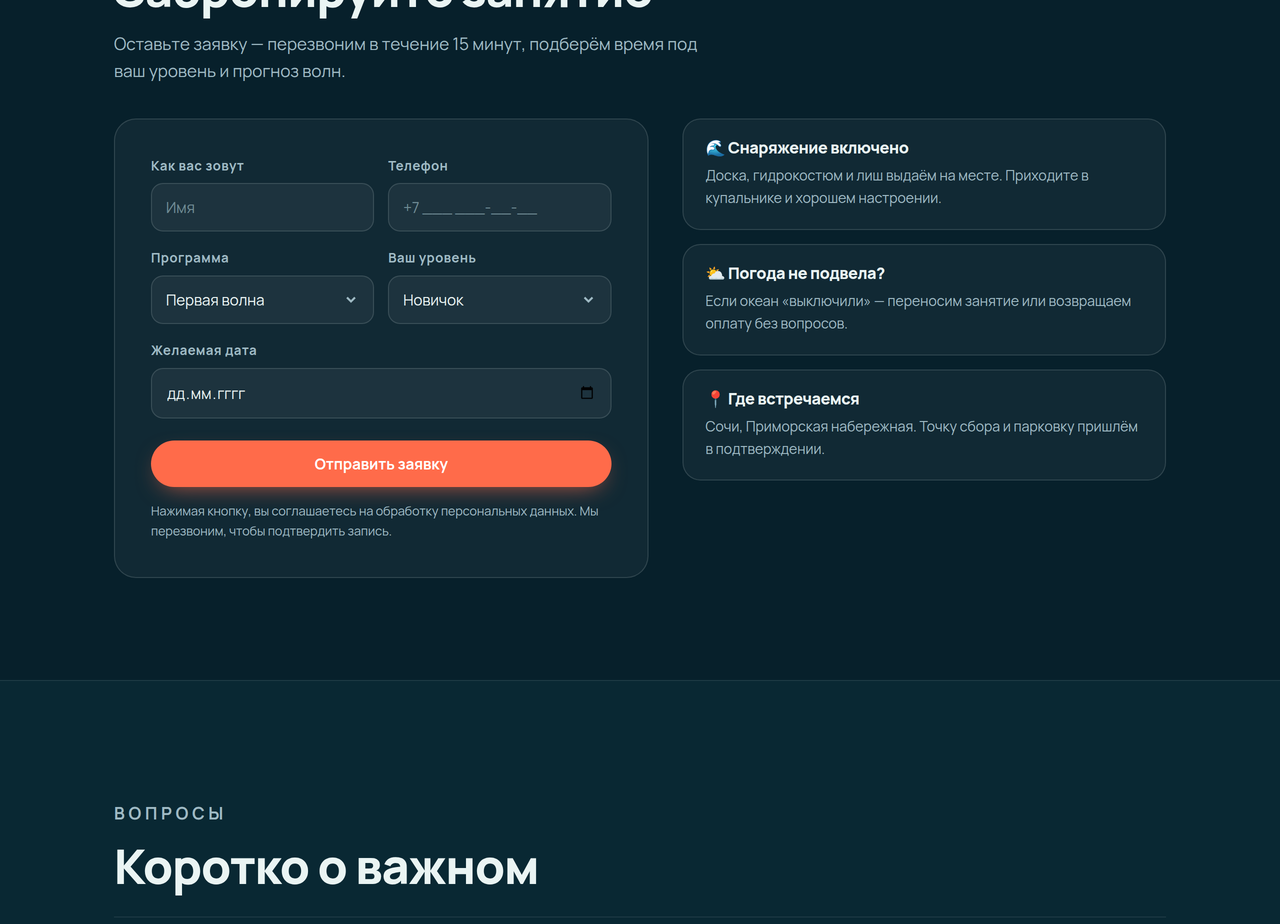
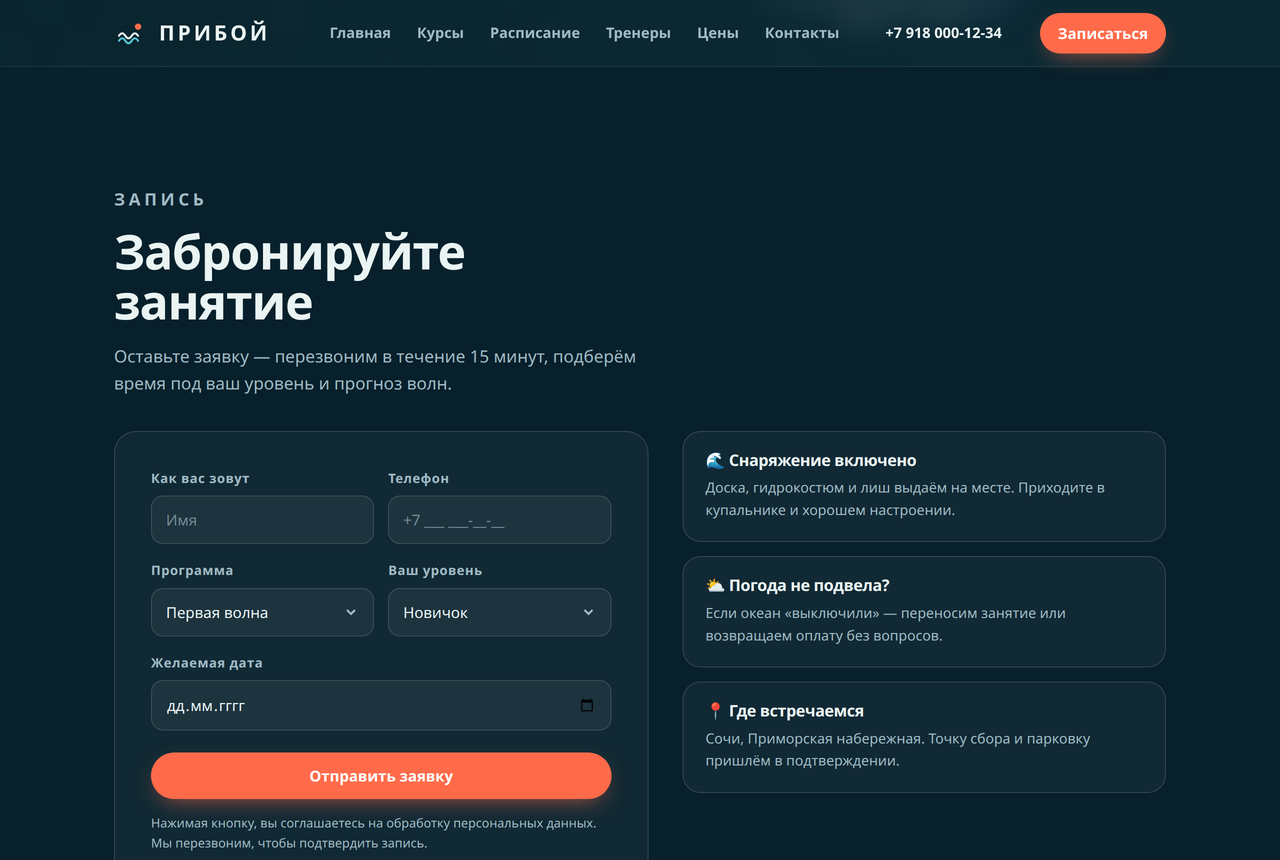
ПРИБОЙ: switch sections to tab-panels like the other landings
Sections now open one screen at a time via the nav (tabs), instead of
one long scroll — matching Веха and ЯГОДА. Each panel gets a "Дальше"
link, keyboard arrows and #hash routing; FAQ merged into Контакты;
booking opens as a panel from the CTA buttons. Also load fonts
non-blocking so the preloader hides promptly.

Claude-Session: https://claude.ai/code/session_01U5XWnAh8A9df2uQjXruh7o

diff --git a/priboy/index.html b/priboy/index.html
@@ -9,7 +9,8 @@
 <link rel="icon" type="image/svg+xml" href="favicon.svg">
 <link rel="preconnect" href="https://fonts.googleapis.com">
 <link rel="preconnect" href="https://fonts.gstatic.com" crossorigin>
-<link href="https://fonts.googleapis.com/css2?family=Manrope:wght@400;500;600;700;800&display=swap" rel="stylesheet">
+<link rel="stylesheet" media="print" onload="this.media='all'" href="https://fonts.googleapis.com/css2?family=Manrope:wght@400;500;600;700;800&display=swap">
+<noscript><link rel="stylesheet" href="https://fonts.googleapis.com/css2?family=Manrope:wght@400;500;600;700;800&display=swap"></noscript>
 <style>
 :root{
   --deep:#07202B; --sea:#0E3A4C; --teal:#12566B;
@@ -107,7 +108,20 @@ section{position:relative}
 .sec-head h2{font-size:clamp(28px,4.4vw,48px);margin-top:14px}
 .sec-head p{margin-top:16px;color:var(--mist);font-size:17px}
 
-/* ——— вкладки ——— */
+/* ——— секции как вкладки-панели (по одной на экране) ——— */
+.js .panel[hidden]{display:none!important}
+.js .panel{min-height:calc(100svh - var(--hh));border-top:0}
+.js .panel.is-active{animation:panelIn .45s ease both}
+@keyframes panelIn{from{opacity:0;transform:translateY(12px)}to{opacity:1;transform:none}}
+.next-wrap{margin-top:var(--gap)}
+.next{display:inline-flex;align-items:center;gap:14px;padding:14px 0}
+.next span{font-size:12px;font-weight:700;letter-spacing:.14em;text-transform:uppercase;color:var(--mist)}
+.next b{font-size:20px;font-weight:800}
+.next .arw{color:var(--coral);font-size:22px;line-height:1;transition:transform .2s}
+.next:hover .arw{transform:translateX(6px)}
+.next:hover b{color:var(--foam)}
+
+/* ——— вкладки внутри секций ——— */
 .tabs{display:flex;flex-wrap:wrap;gap:10px;margin:34px 0 30px}
 .tab{font-family:inherit;font-weight:700;font-size:14.5px;color:var(--mist);cursor:pointer;
   background:var(--card);border:1px solid var(--line);border-radius:999px;padding:11px 20px;transition:.2s}
@@ -280,6 +294,7 @@ section{position:relative}
       <b>ПРИБОЙ</b>
     </a>
     <nav class="nav" id="nav" aria-label="Разделы">
+      <a href="#home">Главная</a>
       <a href="#courses">Курсы</a>
       <a href="#schedule">Расписание</a>
       <a href="#coaches">Тренеры</a>
@@ -302,6 +317,7 @@ section{position:relative}
     <b style="letter-spacing:.14em">ПРИБОЙ</b>
     <button class="mclose" id="mclose" aria-label="Закрыть">✕</button>
   </div>
+  <a href="#home">Главная</a>
   <a href="#courses">Курсы</a>
   <a href="#schedule">Расписание</a>
   <a href="#coaches">Тренеры</a>
@@ -311,9 +327,9 @@ section{position:relative}
   <button class="btn btn-coral" data-book>Записаться на занятие</button>
 </aside>
 
-<main id="home">
+<main>
   <!-- hero -->
-  <section class="hero">
+  <section class="hero panel" id="home">
     <div class="wrap">
       <p class="eyebrow">Школа сёрфинга · Чёрное море, Сочи</p>
       <h1>Поймай свою <span class="accent">первую волну</span><br>уже на этих выходных</h1>
@@ -333,7 +349,7 @@ section{position:relative}
   </section>
 
   <!-- курсы (вкладки по уровню) -->
-  <section class="sec" id="courses">
+  <section class="sec panel" id="courses">
     <div class="wrap">
       <div class="sec-head">
         <p class="eyebrow">Программы</p>
@@ -428,7 +444,7 @@ section{position:relative}
   </section>
 
   <!-- расписание (вкладки по локации) -->
-  <section class="sec alt" id="schedule">
+  <section class="sec alt panel" id="schedule">
     <div class="wrap">
       <div class="sec-head">
         <p class="eyebrow">Ближайшие сессии</p>
@@ -468,7 +484,7 @@ section{position:relative}
   </section>
 
   <!-- тренеры -->
-  <section class="sec" id="coaches">
+  <section class="sec panel" id="coaches">
     <div class="wrap">
       <div class="sec-head">
         <p class="eyebrow">Команда</p>
@@ -483,7 +499,7 @@ section{position:relative}
   </section>
 
   <!-- цены -->
-  <section class="sec alt" id="pricing">
+  <section class="sec alt panel" id="pricing">
     <div class="wrap">
       <div class="sec-head">
         <p class="eyebrow">Абонементы</p>
@@ -514,7 +530,7 @@ section{position:relative}
   </section>
 
   <!-- запись -->
-  <section class="sec" id="booking">
+  <section class="sec panel" id="booking">
     <div class="wrap">
       <div class="sec-head">
         <p class="eyebrow">Запись</p>
@@ -565,21 +581,8 @@ section{position:relative}
     </div>
   </section>
 
-  <!-- FAQ -->
-  <section class="sec alt">
-    <div class="wrap">
-      <div class="sec-head"><p class="eyebrow">Вопросы</p><h2>Коротко о важном</h2></div>
-      <div class="faq" style="margin-top:26px">
-        <details open><summary>Нужно ли уметь плавать?<span class="pl"></span></summary><p>Да, базовый навык плавания обязателен — занятия проходят на глубине, где не всегда достаёте дна. Спасатель и страховка есть всегда.</p></details>
-        <details><summary>А если я совсем ничего не умею?<span class="pl"></span></summary><p>Именно для этого есть программа «Первая волна». Большинство встают на доску и проезжают на пене уже в первое занятие.</p></details>
-        <details><summary>Что взять с собой?<span class="pl"></span></summary><p>Купальник, полотенце, крем от солнца и воду. Всё остальное — доску, гидрокостюм, лиш — выдаём на месте.</p></details>
-        <details><summary>Можно оплатить абонементом на месте?<span class="pl"></span></summary><p>Да, оплата на споте картой или переводом. Абонемент активируется с первого занятия и замораживается на время шторма.</p></details>
-      </div>
-    </div>
-  </section>
-
-  <!-- контакты -->
-  <section class="sec" id="contacts">
+  <!-- контакты + вопросы -->
+  <section class="sec panel" id="contacts">
     <div class="wrap">
       <div class="contacts">
         <div>
@@ -594,6 +597,14 @@ section{position:relative}
           <button class="btn btn-coral" data-book style="margin-top:28px">Записаться на занятие</button>
         </div>
         <div class="map">Сёрф-станция на Приморской набережной<br>парковка и душевые рядом</div>
+      </div>
+
+      <div class="sec-head" style="margin-top:var(--gap)"><p class="eyebrow">Вопросы</p><h2>Коротко о важном</h2></div>
+      <div class="faq" style="margin-top:26px">
+        <details open><summary>Нужно ли уметь плавать?<span class="pl"></span></summary><p>Да, базовый навык плавания обязателен — занятия проходят на глубине, где не всегда достаёте дна. Спасатель и страховка есть всегда.</p></details>
+        <details><summary>А если я совсем ничего не умею?<span class="pl"></span></summary><p>Именно для этого есть программа «Первая волна». Большинство встают на доску и проезжают на пене уже в первое занятие.</p></details>
+        <details><summary>Что взять с собой?<span class="pl"></span></summary><p>Купальник, полотенце, крем от солнца и воду. Всё остальное — доску, гидрокостюм, лиш — выдаём на месте.</p></details>
+        <details><summary>Можно оплатить абонементом на месте?<span class="pl"></span></summary><p>Да, оплата на споте картой или переводом. Абонемент активируется с первого занятия и замораживается на время шторма.</p></details>
       </div>
     </div>
   </section>
@@ -617,11 +628,12 @@ section{position:relative}
 (function(){
   var root=document.documentElement, reduce=matchMedia("(prefers-reduced-motion:reduce)").matches;
 
-  /* прелоадер */
+  /* прелоадер — скрываем сразу после готовности страницы (не ждём загрузку видео) */
   function loaded(){ root.classList.add("is-loaded"); }
-  if(document.readyState==="complete") loaded();
-  else window.addEventListener("load", function(){ setTimeout(loaded, 350); });
-  setTimeout(loaded, 4000);
+  setTimeout(loaded, 450);
+  document.addEventListener("DOMContentLoaded", loaded);
+  window.addEventListener("load", loaded);
+  setTimeout(loaded, 2500);
 
   /* видео: если не запустилось — оставляем постер */
   var v=document.getElementById("bgVideo");
@@ -652,20 +664,19 @@ section{position:relative}
     });
   });
 
-  /* кнопки «Записаться» → скролл к форме + подстановка программы */
+  /* кнопки «Записаться» → открыть панель записи + подставить программу */
   var planSel=document.getElementById("f-plan");
   document.querySelectorAll("[data-book]").forEach(function(b){
-    b.addEventListener("click", function(){
+    b.addEventListener("click", function(e){
+      e.preventDefault();
       var plan=b.getAttribute("data-plan");
       if(plan && planSel){
         for(var i=0;i<planSel.options.length;i++){
           if(planSel.options[i].value===plan || planSel.options[i].text===plan){ planSel.selectedIndex=i; break; }
         }
       }
-      closeM();
       resetToForm();
-      document.getElementById("booking").scrollIntoView({behavior:reduce?"auto":"smooth"});
-      setTimeout(function(){ document.getElementById("f-name").focus({preventScroll:true}); }, reduce?0:500);
+      showPanel("booking",{focusName:true});
     });
   });
 
@@ -699,25 +710,83 @@ section{position:relative}
     document.getElementById("f-name").focus();
   });
 
-  /* активная ссылка в навигации + подвижное подчёркивание */
+  /* ——— секции-панели: навигация работает как вкладки ——— */
   var nav=document.getElementById("nav"), ink=document.getElementById("ink");
-  var links=[].slice.call(nav.querySelectorAll("a"));
-  function moveInk(a){ if(!a){ink.style.width="0";return;} ink.style.left=a.offsetLeft+"px"; ink.style.width=a.offsetWidth+"px"; }
-  var sections=links.map(function(a){ return document.querySelector(a.getAttribute("href")); });
-  function onScroll(){
-    var y=window.scrollY+90, cur=null;
-    for(var i=0;i<sections.length;i++){
-      var s=sections[i]; if(s && s.offsetTop<=y) cur=i;
-    }
-    links.forEach(function(a){ a.classList.remove("active"); });
-    if(cur!==null){ links[cur].classList.add("active"); moveInk(links[cur]); }
-    else moveInk(null);
+  var navLinks=[].slice.call(nav.querySelectorAll("a"));
+  var panels=[].slice.call(document.querySelectorAll("main .panel"));
+  var byId={};
+  panels.forEach(function(p){ byId[p.id]=p; p.hidden=true; p.setAttribute("role","tabpanel"); p.tabIndex=-1; });
+  nav.setAttribute("role","tablist");
+  navLinks.forEach(function(a){ a.setAttribute("role","tab"); });
+
+  /* порядок разделов = порядок пунктов меню; ссылка «Дальше» в конце каждой панели */
+  var order=navLinks.map(function(a){ return a.getAttribute("href").slice(1); });
+  order.forEach(function(id,i){
+    if(i===order.length-1) return;
+    var p=byId[id]; if(!p) return;
+    var wrap=p.querySelector(".wrap"); if(!wrap) return;
+    var div=document.createElement("div"); div.className="next-wrap";
+    div.innerHTML='<a class="next" href="#'+order[i+1]+'"><span>Дальше</span><b>'+
+      navLinks[i+1].textContent.trim()+'</b><span class="arw" aria-hidden="true">&rarr;</span></a>';
+    wrap.appendChild(div);
+  });
+
+  var current=null;
+  function moveInk(){
+    var a=null;
+    navLinks.forEach(function(l){ if(l.getAttribute("href").slice(1)===current) a=l; });
+    if(!a){ ink.style.width="0"; return; }
+    ink.style.left=a.offsetLeft+"px"; ink.style.width=a.offsetWidth+"px";
   }
-  window.addEventListener("scroll", onScroll, {passive:true});
-  window.addEventListener("resize", onScroll);
-  links.forEach(function(a){ a.addEventListener("mouseenter", function(){ moveInk(a); });
-    a.addEventListener("mouseleave", onScroll); });
-  onScroll();
+  function showPanel(id,opts){
+    opts=opts||{};
+    var p=byId[id]; if(!p) return;
+    var prev=current;
+    if(id===prev){ closeM(); return; }
+    current=id;
+    panels.forEach(function(x){ if(x!==p){ x.hidden=true; x.classList.remove("is-active"); } });
+    p.hidden=false; p.classList.remove("is-active"); void p.offsetWidth; p.classList.add("is-active");
+    navLinks.forEach(function(l){
+      var on=l.getAttribute("href").slice(1)===id;
+      l.classList.toggle("active", on); l.setAttribute("aria-selected", String(on));
+    });
+    moveInk();
+    if(!opts.noHash){
+      if(prev===null || opts.replace) history.replaceState(null,"","#"+id);
+      else history.pushState(null,"","#"+id);
+    }
+    closeM();
+    window.scrollTo(0,0);
+    if(opts.focusName){ var n=document.getElementById("f-name"); setTimeout(function(){ n && n.focus({preventScroll:true}); }, reduce?0:280); }
+    else if(opts.focus){ p.focus({preventScroll:true}); }
+  }
+  window.showPanel=showPanel;
+
+  /* любая ссылка вида #раздел открывает нужную панель */
+  document.addEventListener("click", function(e){
+    var a=e.target.closest('a[href^="#"]'); if(!a||e.metaKey||e.ctrlKey||e.shiftKey) return;
+    var id=a.getAttribute("href").slice(1); if(!byId[id]) return;
+    e.preventDefault();
+    showPanel(id,{focus:a.getAttribute("role")!=="tab"});
+  });
+  window.addEventListener("popstate", function(){
+    var id=location.hash.slice(1);
+    showPanel(byId[id]?id:order[0], {noHash:true});
+  });
+  window.addEventListener("resize", moveInk);
+
+  /* клавиши-стрелки по стандарту вкладок */
+  nav.addEventListener("keydown", function(e){
+    var i=navLinks.indexOf(document.activeElement), n=navLinks.length, to;
+    if(i<0) return;
+    if(e.key==="ArrowRight") to=(i+1)%n; else if(e.key==="ArrowLeft") to=(i-1+n)%n;
+    else if(e.key==="Home") to=0; else if(e.key==="End") to=n-1; else return;
+    e.preventDefault(); navLinks[to].focus(); navLinks[to].click();
+  });
+
+  /* стартовая панель (учитывает #раздел в адресе) */
+  var start=location.hash.slice(1);
+  showPanel(byId[start]?start:"home", {replace:true});
 })();
 </script>
 </body>

diff --git a/README.md b/README.md
@@ -102,14 +102,15 @@
   </tr>
   <tr>
     <td><img src="assets/priboy-booking.png" alt="Форма записи" width="440"/><br/><sub>Рабочая форма записи с валидацией и экраном подтверждения</sub></td>
-    <td valign="top"><b>Что интерактивного</b><br/><sub>Видеофон, мобильное меню, живое подчёркивание навигации, переключение вкладок, кнопки «Выбрать» подставляют программу в форму, отправка → экран подтверждения со сводкой, FAQ-аккордеон.</sub></td>
+    <td valign="top"><b>Что интерактивного</b><br/><sub>Разделы переключаются как вкладки-панели (по одной на экране), видеофон, мобильное меню, живое подчёркивание навигации, вкладки внутри секций, кнопки «Выбрать» подставляют программу в форму, отправка → экран подтверждения со сводкой, FAQ-аккордеон.</sub></td>
   </tr>
 </table>
 
 ### Возможности
 
+- **Навигация как вкладки** — разделы (Главная / Курсы / Расписание / Тренеры / Цены / Контакты) открываются как панели по одной на экране, без длинной прокрутки — так же, как в «Веха» и «ЯГОДА». У каждой панели внизу ссылка «Дальше» на следующий раздел, поддержаны стрелки клавиатуры и адрес `#раздел`.
 - **Видеофон** — фоновое видео океанских волн (Pexels) с постером и затемнением; можно положить свой ролик в `priboy/video/priboy-bg.mp4`.
-- **Вкладки курсов** — три уровня (Новичок / Продолжающий / Про), у каждого свои программы: разовые занятия, курсы, интенсивы, детская группа, кемп, surf-guiding.
+- **Вкладки внутри секций** — три уровня курсов (Новичок / Продолжающий / Про), у каждого свои программы: разовые занятия, курсы, интенсивы, детская группа, кемп, surf-guiding.
 - **Вкладки расписания** — переключение по спотам («Маяк» / «Бухта» / «Пляж 40») с сеткой сессий и статусом мест.
 - **Тренеры** — карточки команды с ролями и специализацией.
 - **Абонементы** — три тарифа; кнопки «Выбрать» подставляют программу в форму записи и прокручивают к ней.
